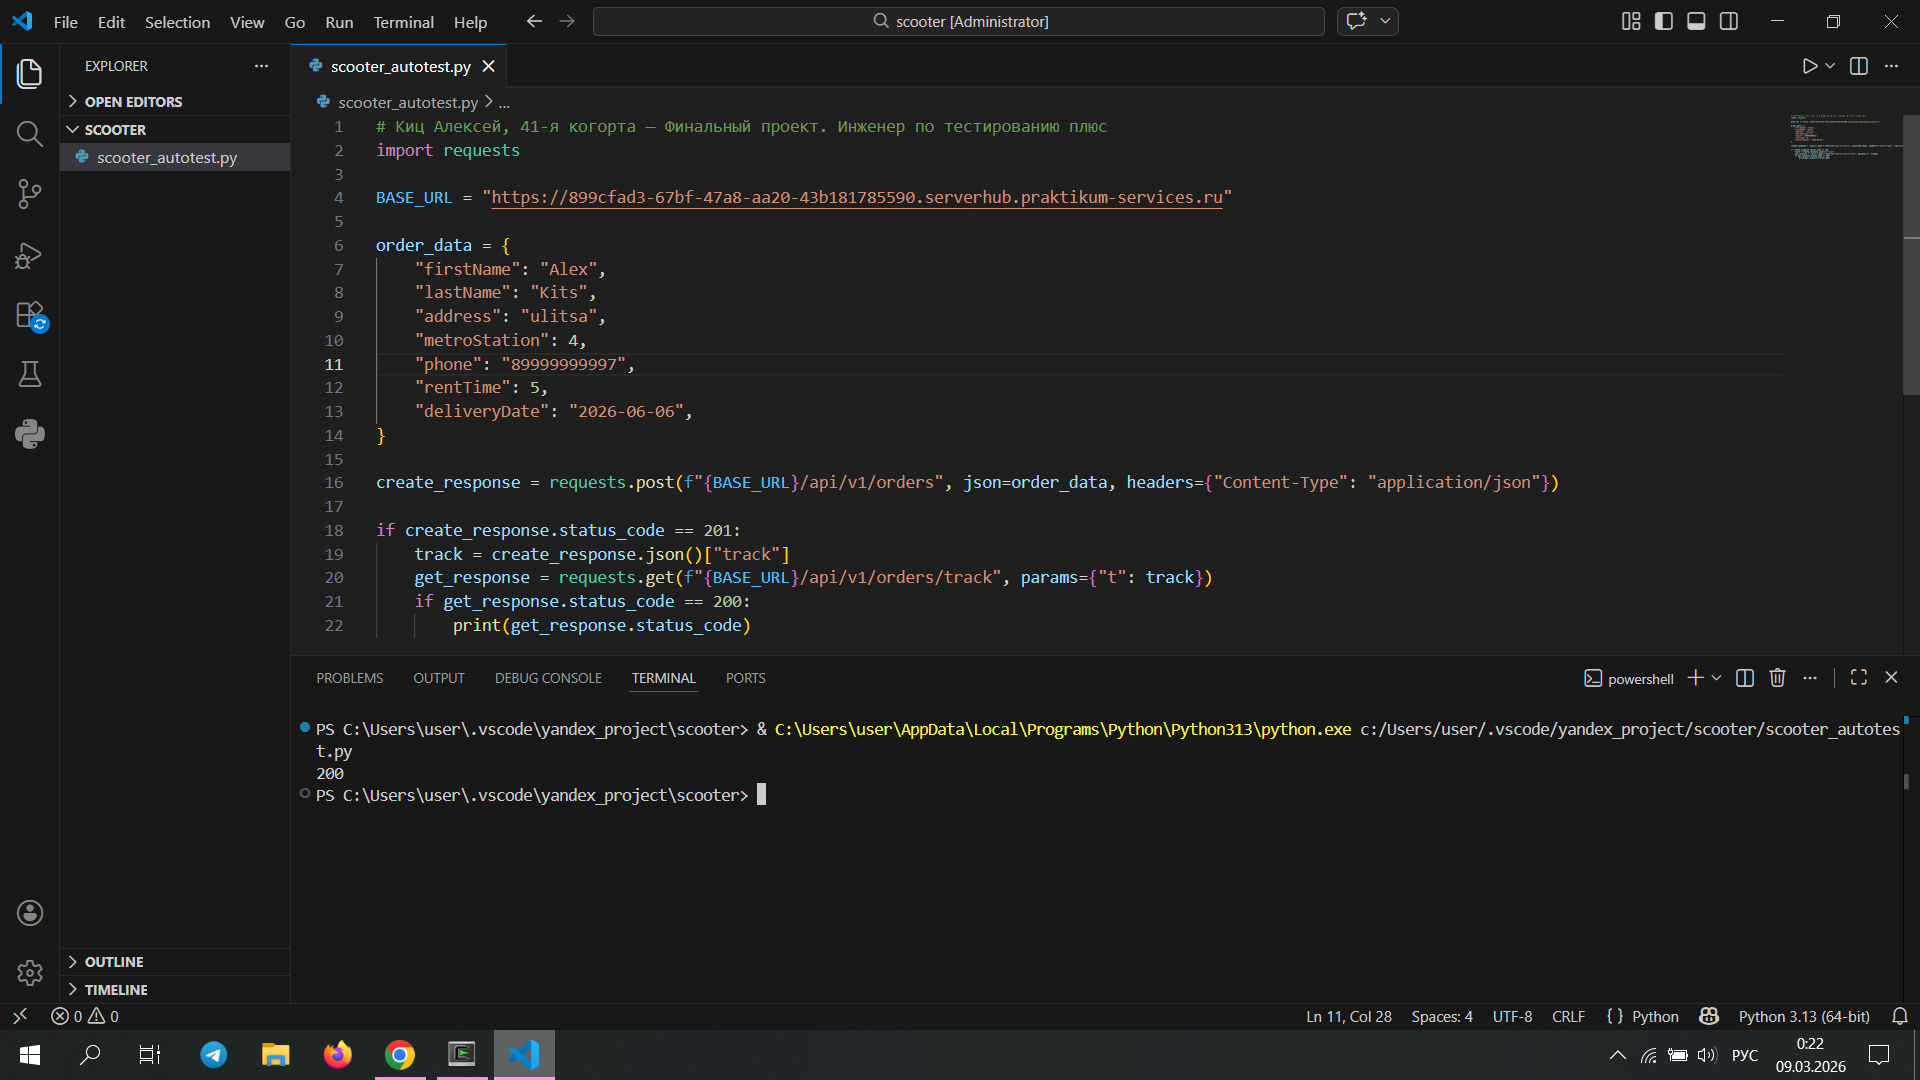
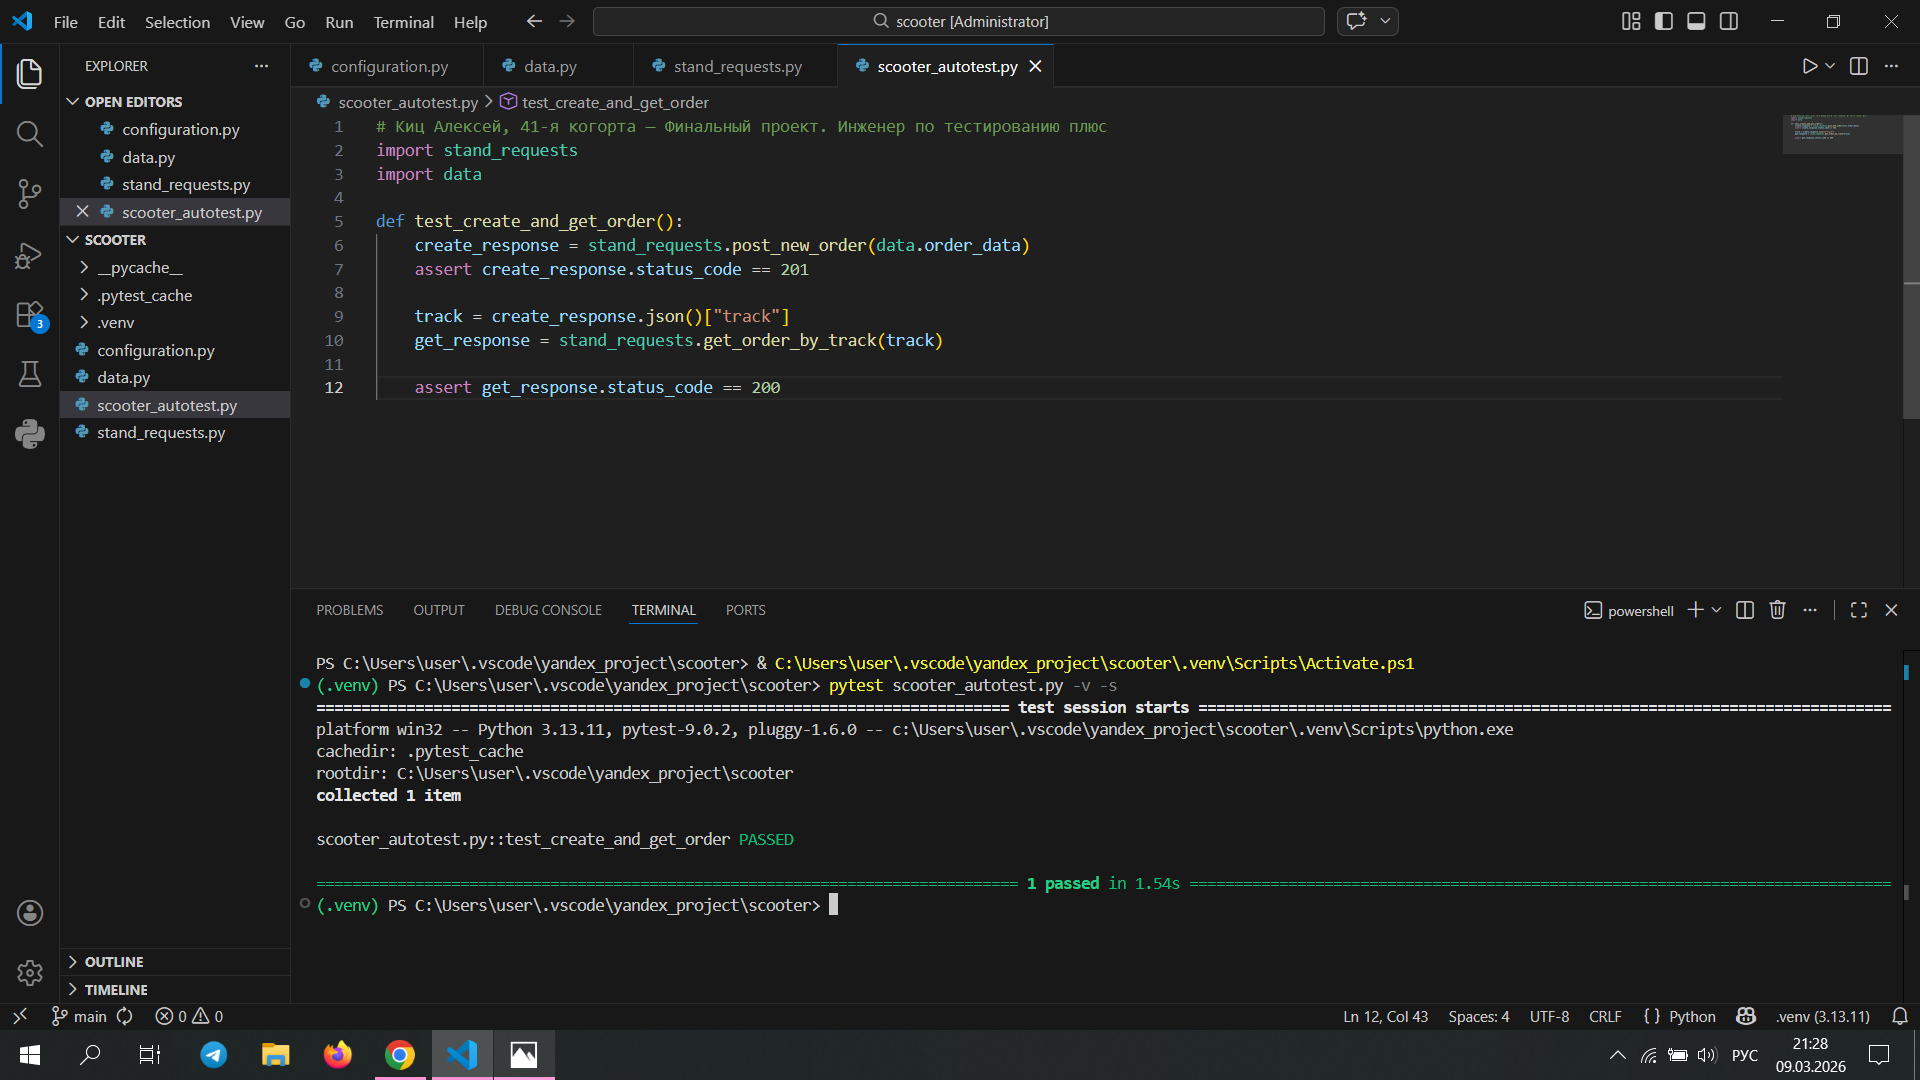
Add new files: configuration, data, stand_requests; modified: autotest, screenshot

diff --git a/scooter_autotest.py b/scooter_autotest.py
@@ -1,22 +1,12 @@
 # Киц Алексей, 41-я когорта — Финальный проект. Инженер по тестированию плюс
-import requests
+import stand_requests
+import data
 
-BASE_URL = "https://899cfad3-67bf-47a8-aa20-43b181785590.serverhub.praktikum-services.ru"
-
-order_data = {
-    "firstName": "Alex",
-    "lastName": "Kits",
-    "address": "ulitsa",
-    "metroStation": 4,
-    "phone": "89999999997",
-    "rentTime": 5,
-    "deliveryDate": "2026-06-06",
-}
-
-create_response = requests.post(f"{BASE_URL}/api/v1/orders", json=order_data, headers={"Content-Type": "application/json"})
-
-if create_response.status_code == 201:
+def test_create_and_get_order():
+    create_response = stand_requests.post_new_order(data.order_data)
+    assert create_response.status_code == 201
+    
     track = create_response.json()["track"]
-    get_response = requests.get(f"{BASE_URL}/api/v1/orders/track", params={"t": track})
-    if get_response.status_code == 200:
-        print(get_response.status_code)
+    get_response = stand_requests.get_order_by_track(track)
+    
+    assert get_response.status_code == 200

diff --git a/stand_requests.py b/stand_requests.py
@@ -1,0 +1,16 @@
+import requests
+import configuration
+import data
+
+def post_new_order(body):
+    return requests.post(
+        configuration.BASE_URL + configuration.CREATE_ORDER_PATH,
+        json=body,
+        headers=data.headers
+    )
+
+def get_order_by_track(track):
+    return requests.get(
+        configuration.BASE_URL + configuration.GET_ORDER_PATH,
+        params={"t": track}
+    )

diff --git a/data.py b/data.py
@@ -1,0 +1,13 @@
+order_data = {
+    "firstName": "Alex",
+    "lastName": "Kits",
+    "address": "ulitsa",
+    "metroStation": 4,
+    "phone": "89999999997",
+    "rentTime": 5,
+    "deliveryDate": "2026-06-06",
+}
+
+headers = {
+    "Content-Type": "application/json"
+}

diff --git a/configuration.py b/configuration.py
@@ -1,0 +1,3 @@
+BASE_URL = "https://8f814d3d-1ac2-46b7-af3d-f7f3cfdbb1b3.serverhub.praktikum-services.ru"
+CREATE_ORDER_PATH = "/api/v1/orders"
+GET_ORDER_PATH = "/api/v1/orders/track"
